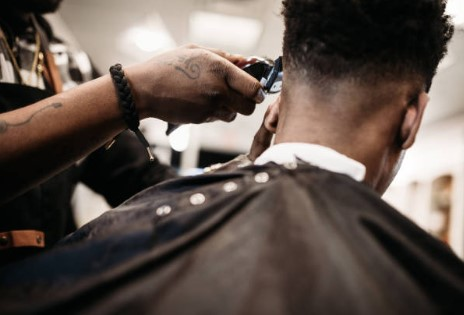
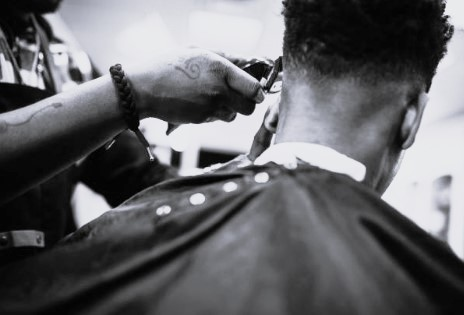
black and white background picture

diff --git a/style.css b/style.css
@@ -75,12 +75,16 @@ body {
     width: 100%;
 }
 
+.hero .section-text{}
+
 .hero h1{
-    color: #2DDF5C;
+    color: #ffff00dd;
+    
 }
 
 .green-header {
-    color: #2DDF5C;
+    color: #ffff00dd;
+
     font-size: 3.5rem;
 }
 
